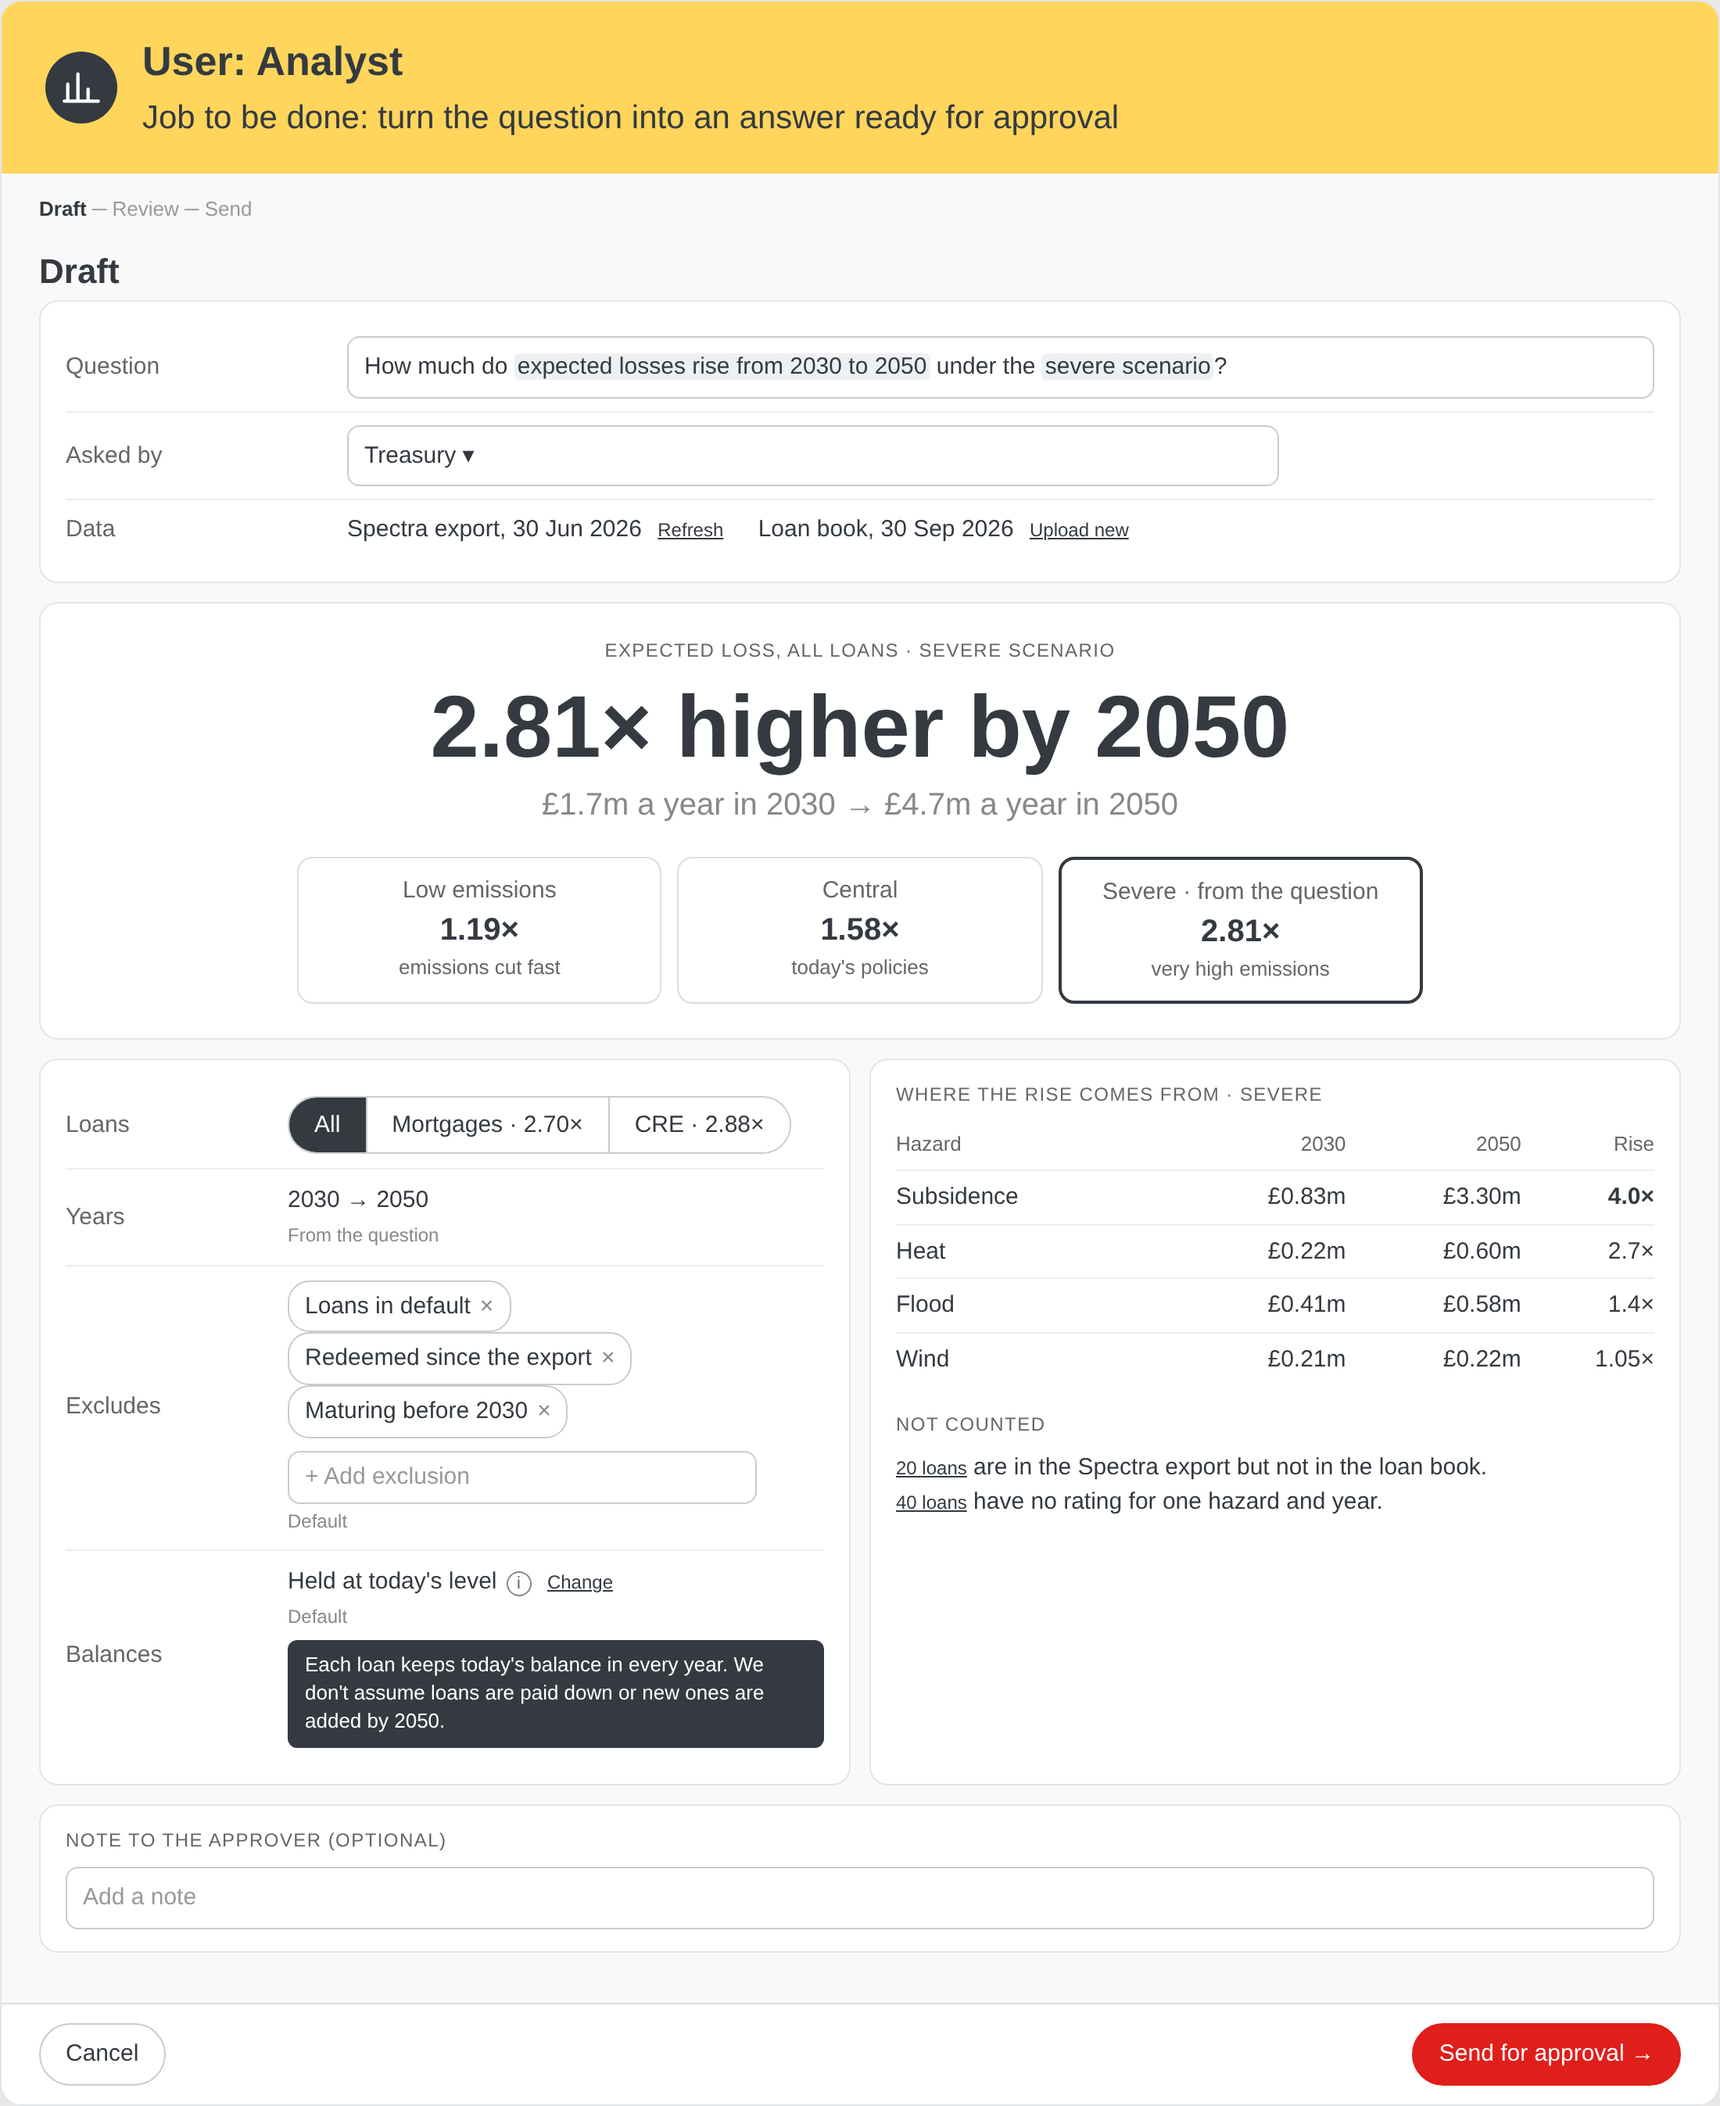
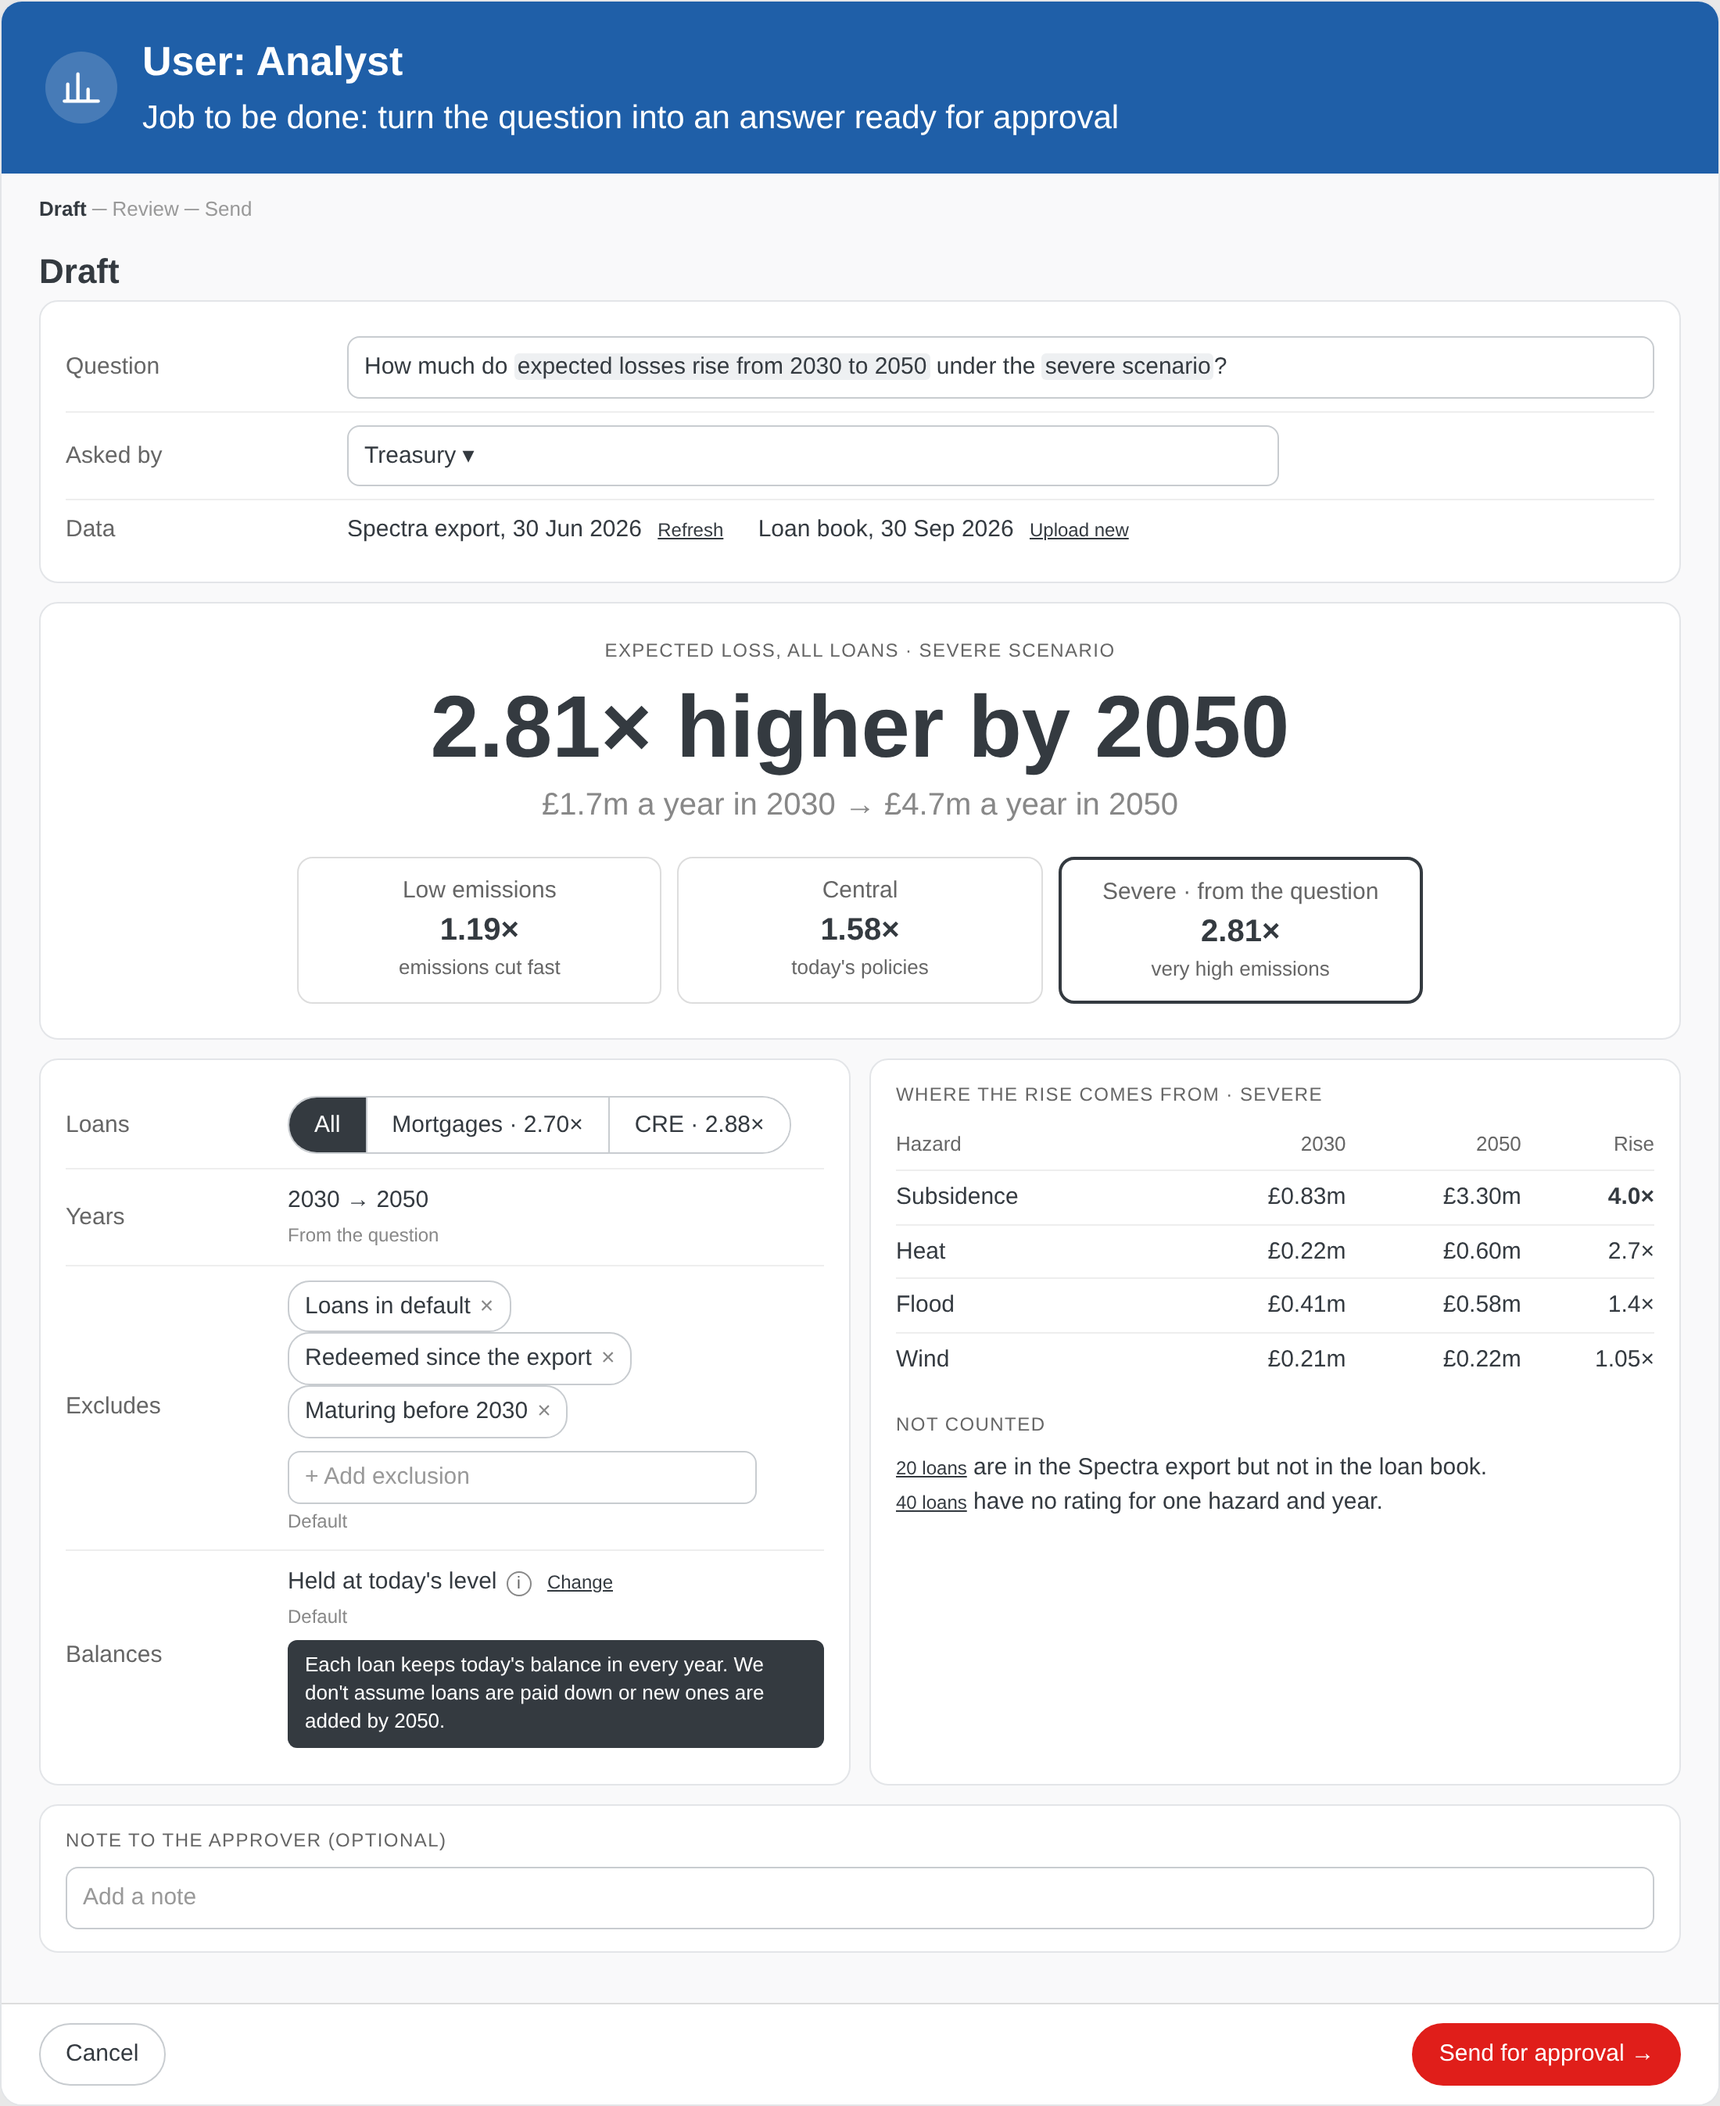
Run 1 screens: blue ribbon
Claude-Session: https://claude.ai/code/session_016JoguXTxkWcj5knaYbAtMZ

Changed region(s): [[0.0, 0.0, 1.0, 0.0935]]

diff --git a/runs/run-1/design/solution-design.html b/runs/run-1/design/solution-design.html
@@ -63,8 +63,8 @@ body{font-family:Graphik,Helvetica,Arial,sans-serif;color:#343a40}
 .input{border-color:#c8ccd0;border-radius:8px}
 .kv{width:100%;border-collapse:collapse}.kv td{padding:8px 0;border-top:1px solid #eef0f2;vertical-align:top}.kv td:first-child{color:#6c757d;width:34%}
 .tip{display:block;background:#343a40;color:#fff;font-size:13px;line-height:1.4;padding:7px 11px;border-radius:6px;margin-top:6px;max-width:420px}.i{display:inline-block;width:16px;height:16px;border-radius:50%;border:1px solid #888;font-size:11px;text-align:center;line-height:15px;color:#666;margin-left:6px}
-.hdr2{background:#ffd55c !important;color:#343a40;padding:20px 28px;font-size:26px;font-weight:700;display:flex;align-items:center;gap:16px}
-.hdr2 .sep{color:#8a6d1a}.hdr2 .ic{width:46px;height:46px;border-radius:50%;background:#343a40;display:inline-flex;align-items:center;justify-content:center;flex:none}
+.hdr2{background:#1f5fa8 !important;color:#fff;padding:20px 28px;font-size:26px;font-weight:700;display:flex;align-items:center;gap:16px}
+.hdr2 .sep{color:#8a6d1a}.hdr2 .ic{width:46px;height:46px;border-radius:50%;background:rgba(255,255,255,.18);display:inline-flex;align-items:center;justify-content:center;flex:none}
 .hdr2 .u{font-size:26px;font-weight:700}.hdr2 .jtbd{font-size:21px;font-weight:500;margin-top:2px}
 </style></head><body>
 
